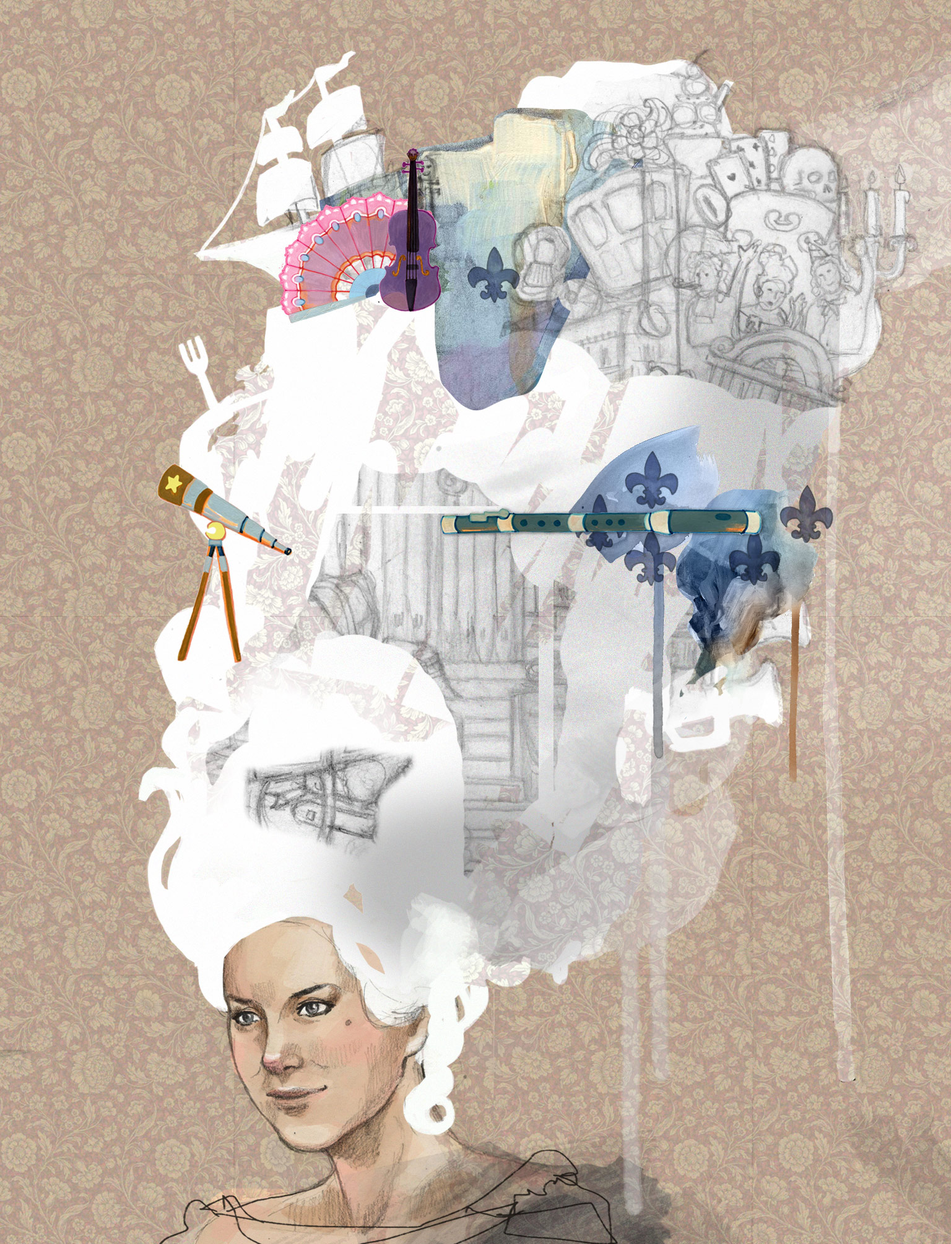
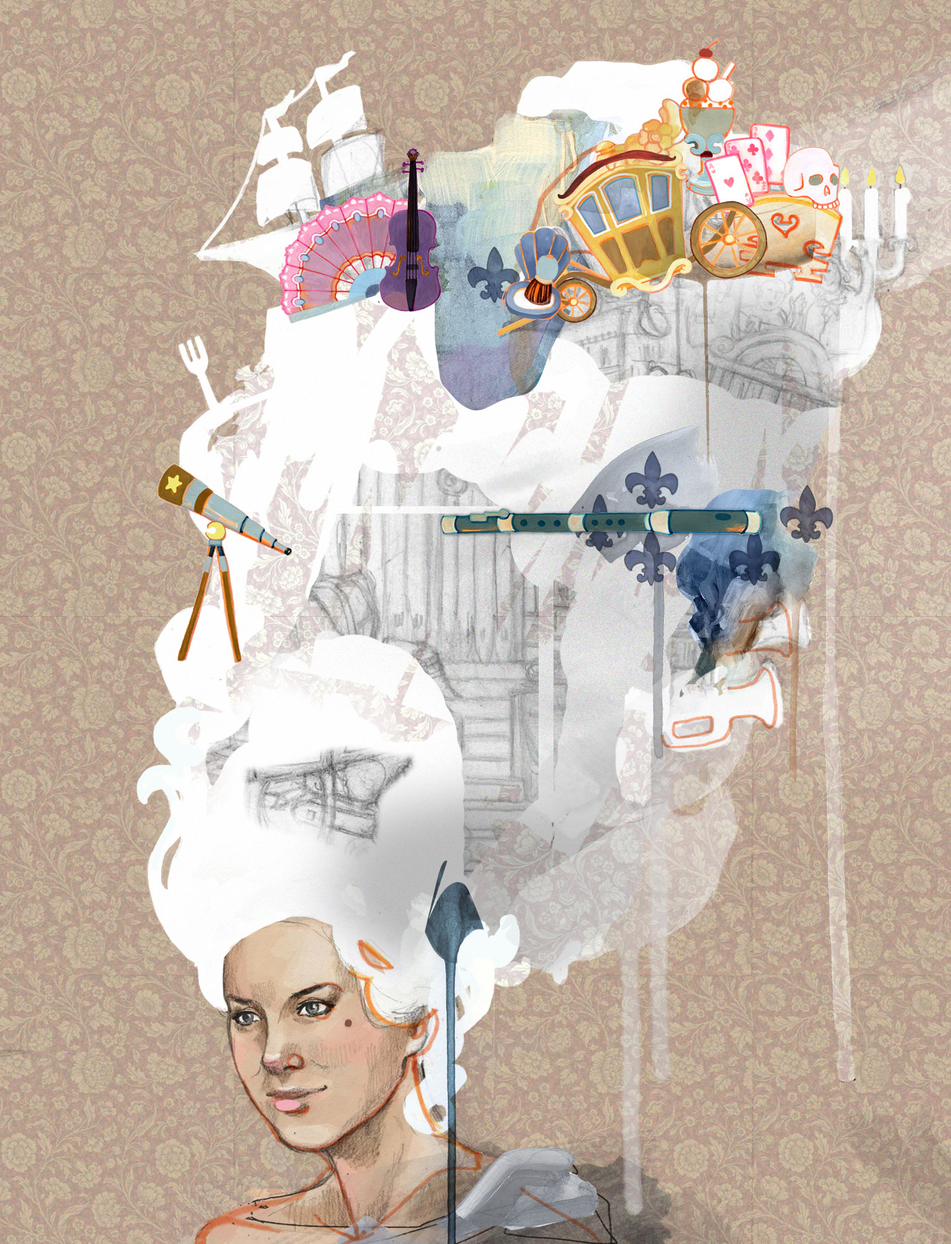
change background-images; add close_button-image; change position of #angel; add #stage_popup

diff --git a/public/css/style.css b/public/css/style.css
@@ -32,9 +32,16 @@ body{
 .main_bg_barock{
     position: relative;
     height: 1004px;
+}
+
+#objects_inactive{
     background: url(../img/objects_inactive_2@2x.png) no-repeat;
-    background-size: 500px;
-    background-position: 130px 254px;
+    width: 502px;
+    height: 738px;
+    left: 34px;
+    top: 266px;
+    position: absolute;
+    z-index: 16;
 }
 
 section#objects{
@@ -104,7 +111,7 @@ section#objects #bean_3{
     top: 452px;
     left: 428px;
     position: absolute;
-    z-index: 16;
+    z-index: 17;
 }
 #louis{
     background: url(../img/louis@2x.png) no-repeat;
@@ -113,7 +120,7 @@ section#objects #bean_3{
     top: 254px;
     left: 74px;
     position: absolute;
-    z-index: 16;
+    z-index: 17;
 }
 #versailles{
     left: 180px;
@@ -185,11 +192,8 @@ section#objects #bean_3{
 }
 #coffeplay{
     background: url(../img/button_playMusic@2x.png) no-repeat;
-    width: 38px;
-    height: 36px;
     left: 60px;
     bottom: 16px;
-    position: absolute;
 }
 
 #bug{
@@ -200,6 +204,11 @@ section#objects #bean_3{
     background-size: contain;
     display:none;
     z-index: 20;
+}
+.button{
+    width: 38px;
+    height: 36px;
+    position: absolute;
 }
 
 /*-----------------Pop-Up-----------------*/
@@ -328,13 +337,15 @@ overlay:target+popup {
 }
 
 .close {
+    background: url(../img/button_close@2x.png) no-repeat;
+    position: absolute;
+    right: 10px;
+    top: 10px;
+    /*
     background: #606061;
     color: #FFFFFF;
     line-height: 25px;
-    position: absolute;
-    right: 10px;
     text-align: center;
-    top: 10px;
     width: 24px;
     text-decoration: none;
     font-weight: bold;
@@ -344,9 +355,10 @@ overlay:target+popup {
     -moz-box-shadow: 1px 1px 3px #000;
     -webkit-box-shadow: 1px 1px 3px #000;
     box-shadow: 1px 1px 3px #000;
+    */
 }
 
-.close:hover { background: #00d9ff; }
+/*.close:hover { background: #00d9ff; }*/
 /*-----------------Modal-Window ENDE-----------------*/
 
 /*---------------Stage-Content----------------*/
@@ -365,7 +377,7 @@ overlay:target+popup {
     position: absolute;
     z-index: 38;
 }
-#stage_bg{
+#stage_middle{
     background: url(../img/stage_bg@2x.png) no-repeat;
     width: 406px;
     height: 503px;
@@ -397,10 +409,12 @@ overlay:target+popup {
 }
 #angel{
     width: 140px;
-    left: 200px;
-    top: 67px;
+    height: 300px;
+    left: 100px;
+    top: -160px;
     position: absolute;
-    z-index: -15px;
+    z-index: -15;
+    display: none;
 }
 #angel_body{
     width: 80px;
@@ -414,6 +428,13 @@ overlay:target+popup {
     float: right;
     background-image: -webkit-linear-gradient(top, #68ff4a, #ffadc6);
     background-image: linear-gradient(top, #68ff4a, #ffadc6);
+    position: absolute;
+}
+#stage_popup{
+    position: relative;
+    background-color: #fff;
+    height: 100%;
+    display: none;
 }
 #stage_curtain_left, #stage_curtain_right{
     height: 530px;

diff --git a/index.html b/index.html
@@ -14,7 +14,9 @@
 <body>
 	<div id="page" class="main_container">
 		<div id="content" class="main_bg_barock">
+
 			<section id="objects">
+				<div id="objects_inactive"></div>
 				<div id="bug">
 					<audio id="bug-audio"><source src="public/audio/bug.mp3"/>
 					</audio>
@@ -67,7 +69,7 @@
 			</div>
 			<div id="coffee_sonata">
 				<p>Dies ist ein Typoblindtext. An ihm kann man sehen, ob alle Buchstaben da sind und wie sie aussehen. Manchmal benutzt man Worte wie Hamburgefonts, Rafgenduks oder Handgloves, um Schriften zu testen.</p>
-				<div id="coffeplay" class="playaudio">
+				<div id="coffeplay" class="playaudio button">
 					<audio id="coffee-audio"><source src="public/audio/kaffeekantate.mp3"/>
 					</audio>
 				</div>
@@ -75,17 +77,21 @@
 
 			<!-- popup object #1 -->
 			<div  id="stage_content" class="modalWindow">
-				<a href="#close" title="Close" class="close">X</a>
+				<a href="#close" title="Close" class="close button"></a>
 				<div>
 					<div id="stage_top"></div>
-					<div id="stage_bg">
+					<div id="stage_middle">
+						<div id="angel">
+							<div id="angel_body"></div>
+							<div id="angel_wing"></div>
+						</div>
 						<div id="stage_button_1" class="stage_button"></div>
 						<div id="stage_button_2" class="stage_button"></div>
 						<div id="stage_button_3" class="stage_button"></div>
-					</div>
-					<div id="angel">
-						<div id="angel_body"></div>
-						<div id="angel_wing"></div>
+						<div id="stage_popup">
+							<div class="close button"></div>
+							<p></p>
+						</div>
 					</div>
 					<div id="rope">
 						<div id="rope_inner"></div>
